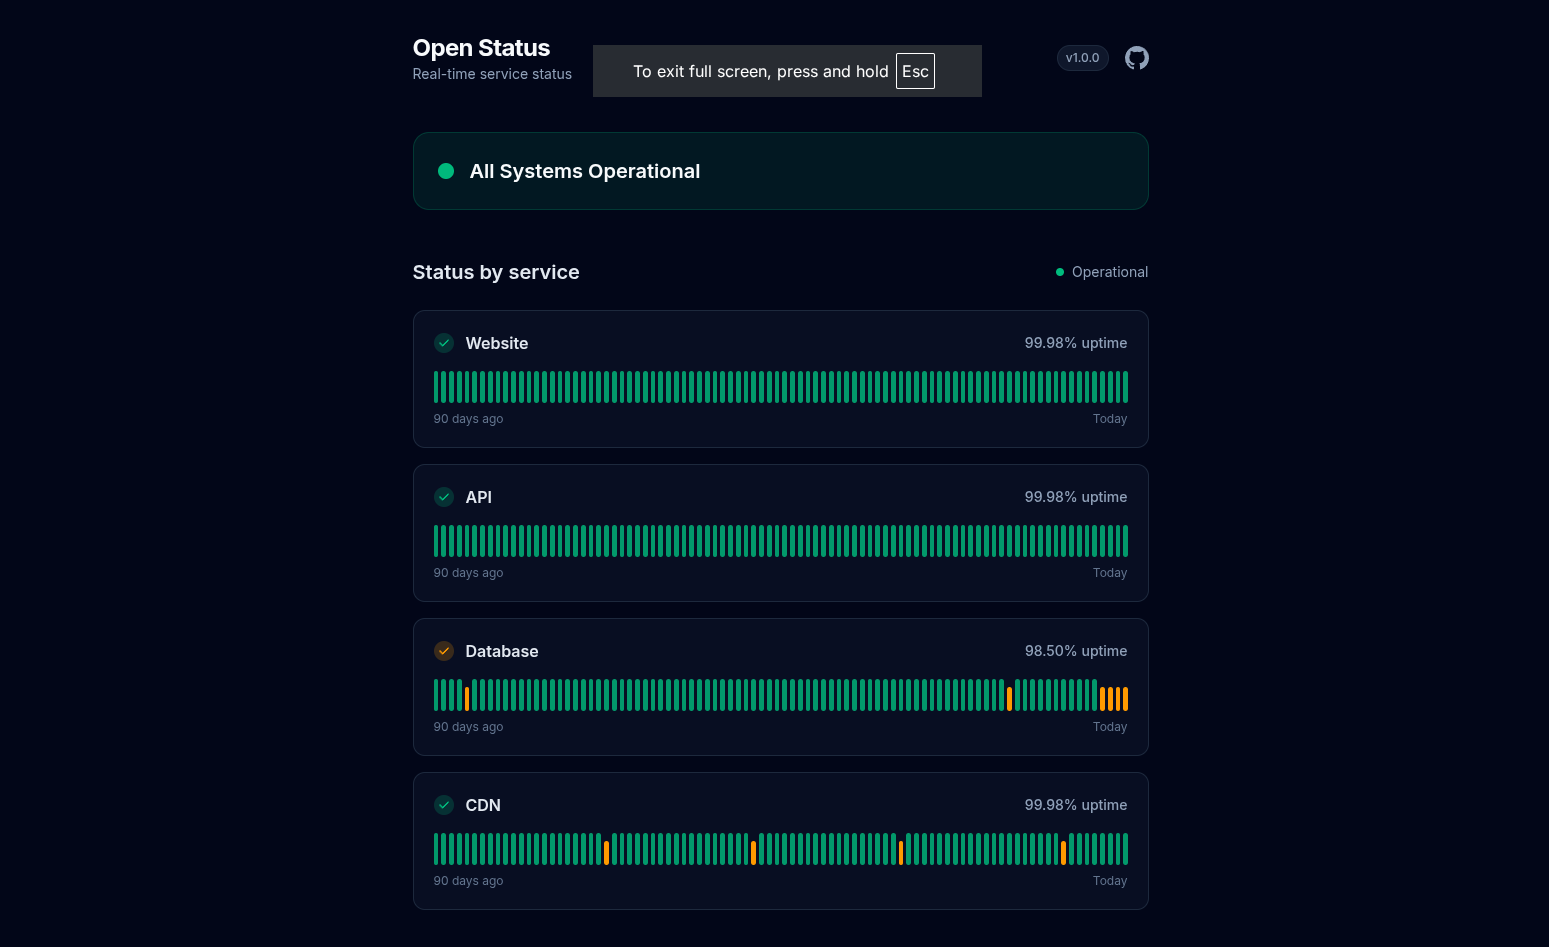
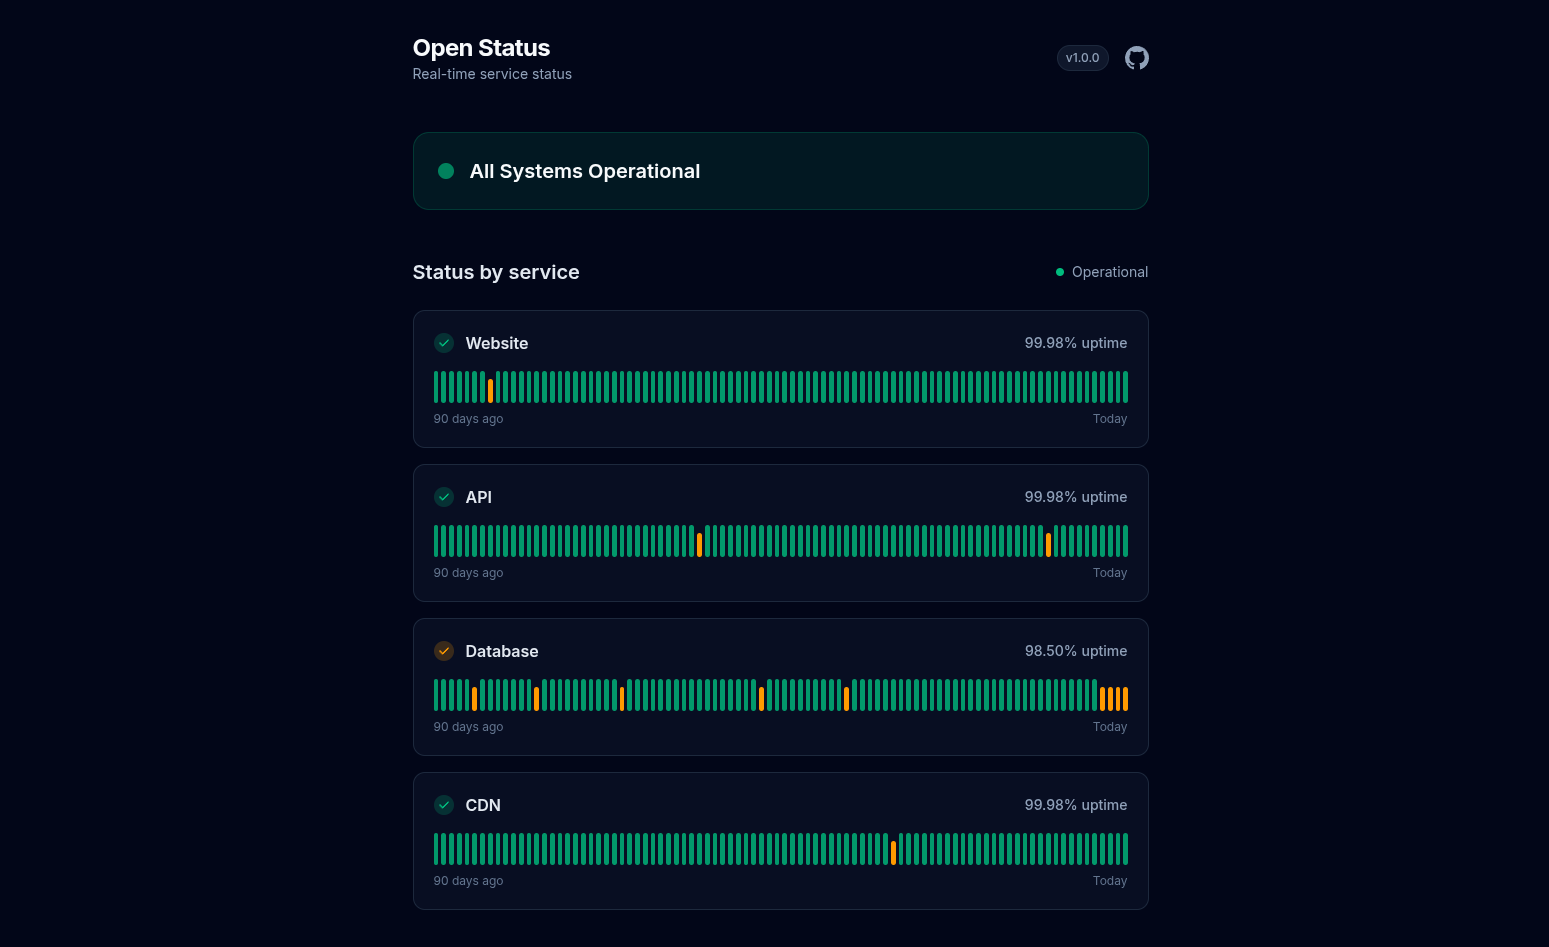
docs: make README demo image clickable and update screenshot

diff --git a/README.md b/README.md
@@ -2,7 +2,7 @@
 
 A **premium, zero‑maintenance status page** built with Astro and Tailwind CSS. It provides a beautiful, dark‑mode UI, real‑time service status, uptime history bars, and a GitHub‑linked header with version badge.
 
-![Open Status Demo](https://raw.githubusercontent.com/0x98c9/open-status/main/public/open-status.png)
+[![Open Status Demo](https://raw.githubusercontent.com/0x98c9/open-status/main/public/open-status.png)](https://open-status.pages.dev/)
 
 ---
 
